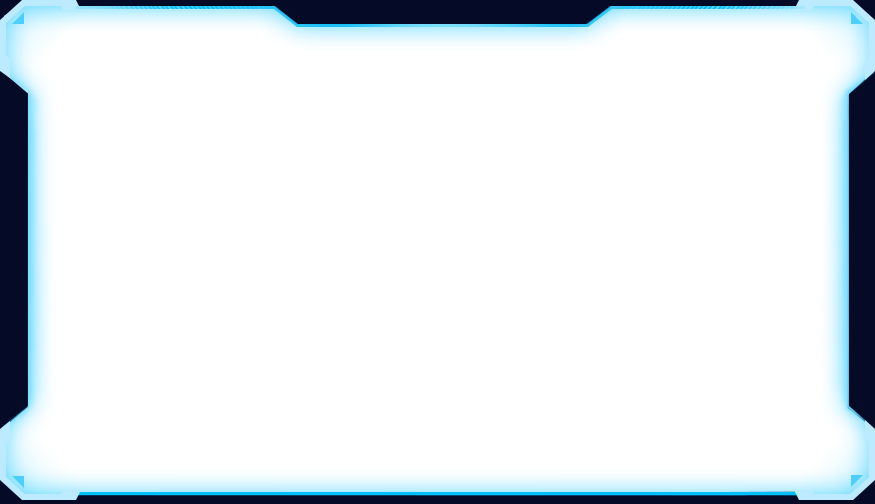
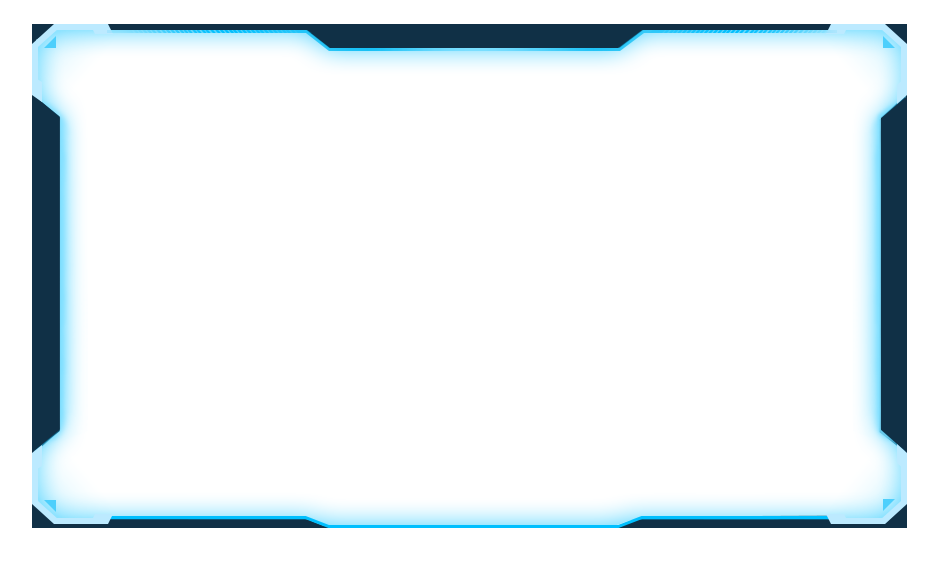
mapBg

Changed region(s): [[0.0, 0.0, 1.0, 1.0]]

diff --git a/src/views/lock/components/business.vue b/src/views/lock/components/business.vue
@@ -1,9 +1,18 @@
 <template>
   <div class="business" ref="business">
-    <div class="board-wrapper">
-      <board></board>
+    <div class="title">
+      <span class="dot"></span>
+      <span>运营异常检索（异常占比）</span>
+      <span class="active">2018-12-13</span>
+      <span>设备总计</span>
+      <span class="active">XXX</span>
     </div>
-    <b-map class="map" ref="map" @nodechange="nodechange" />
+
+    <div class="map-wrapper">
+      <div class="left"><board v-for="(item, index) in boardLeft" :key="index" :content="item" class="board"></board></div>
+      <b-map class="map" ref="map" @nodechange="nodechange" />
+      <div class="right"><board v-for="(item, index) in boardRight" :key="index" :content="item" class="board"></board></div>
+    </div>
   </div>
 </template>
 
@@ -15,6 +24,34 @@ export default {
   name: 'app',
   data() {
     return {
+      boardLeft: {
+        provice: {
+          num: '10',
+          name: '省公司'
+        },
+        city: {
+          num: '10',
+          name: '城市公司'
+        },
+        company: {
+          num: '10',
+          name: '分公司'
+        },
+      },
+      boardRight: {
+        servicesCenter: {
+          num: '10',
+          name: '服务中心'
+        },
+        village: {
+          num: '10',
+          name: '小区'
+        },
+        unit: {
+          num: '10',
+          name: '单元'
+        },
+      },
       update: false
     }
   },
@@ -83,7 +120,30 @@ export default {
 </script>
 
 <style scoped lang="stylus">
-
+  @import '~styles/mixin'
+  @import '~styles/variable'
+  .business
+    margin-top 10px
+    background $bg-panel
+    .title
+      display flex
+      align-items center
+      padding 20px 10px
+      .dot
+        margin-right 10px
+        dot($color-active)
+      .active 
+        margin 0 20px 0 10px
+        color $color-active
+    .map-wrapper
+      display flex
+      .left, .right
+        float left
+        padding 60px 100px 0 100px 
+        .board
+          height 33.33%
+      .map
+        flex 1
 </style>
 
 

diff --git a/src/components/map.vue b/src/components/map.vue
@@ -70,7 +70,7 @@
           <div class="item" v-for="(item, index) in mapArr" :key="index">
             <img :src="item.url" alt>
             <div v-if="item.nums" style="position: relative;">
-              <p style="z-index: 999; height: 20px; background: #050A27;padding-right: 14px;">{{item.name}}</p>
+              <p style="z-index: 999; height: 20px; background: #103045; padding-right: 14px;">{{item.name}}</p>
               <div>
                 <transition-group name="slide">
                   <p v-for="num in item.nums" :key="num" class="number-active">{{num|splitNum}}</p>
@@ -1118,7 +1118,7 @@ export default {
             position: relative;
             background: url('../assets/mapBg.png') no-repeat; 
             background-size: 100% 82%;
-            top: -861px;
+            top: -885px;
         }
       .community {
         display: flex;
@@ -1174,7 +1174,7 @@ export default {
     bottom: 0;
     width: 100%;
     height: 14px;
-    background: #050A27;
+    background: $bg-panel;
   }
 }
 </style>

diff --git a/src/components/business-board.vue b/src/components/business-board.vue
@@ -14,8 +14,8 @@ export default {
   props: {
     content: {
       type: Object,
-      default: {
-        return: {}
+      default() {
+        return {}
       }
     }
   },
@@ -27,4 +27,22 @@ export default {
 </script>
 
 <style scoped lang="stylus">
+  @import '~styles/variable'
+  img 
+    width 100%
+  .content
+    position relative
+    .active
+      position absolute
+      top -108px
+      left 50%
+      transform translateX(-50%)
+      color $color-active
+      font-size 24px
+    .name 
+      position absolute
+      top -74px
+      left 50%
+      transform translateX(-50%)
+      font-size $font-small
 </style>

diff --git a/src/components/circle.vue b/src/components/circle.vue
@@ -1,0 +1,18 @@
+<template>
+  <div class="circle">
+    
+  </div>
+</template>
+
+<script type="text/ecmascript-6">
+export default {
+  name: '',
+  data() {
+    return {}
+  },
+  components: {}
+}
+</script>
+
+<style scoped lang="stylus">
+</style>

diff --git a/src/utils/directive.js b/src/utils/directive.js
@@ -4,3 +4,6 @@ Vue.directive('split-num', {
     return el.innerHTML = el.innerHTML.toString().replace(/(\d)(?=(?:\d{3})+$)/g, '$1,')
   }
 })
+
+
+
